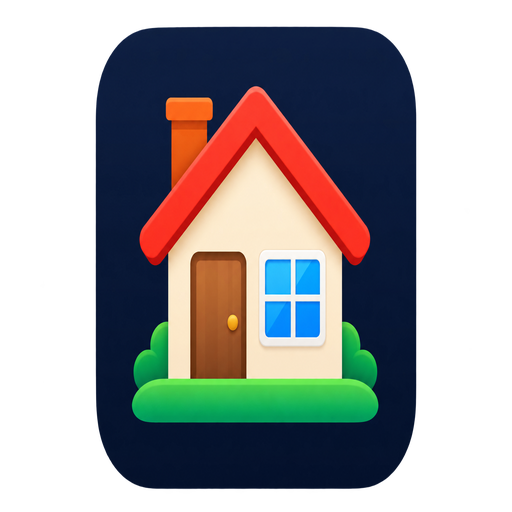
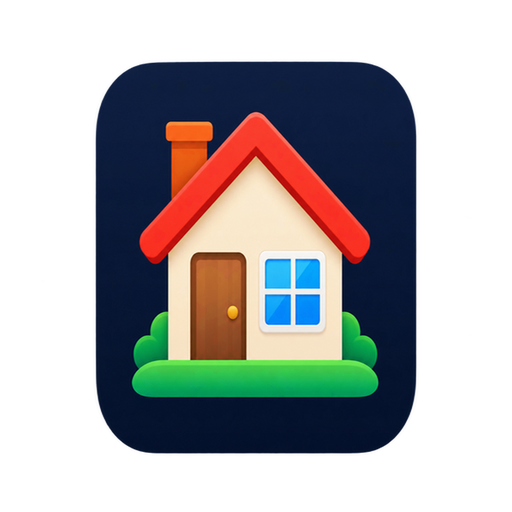
Add files via upload

diff --git a/S3/myHome.html b/S3/myHome.html
@@ -47,15 +47,15 @@ th{color:var(--muted)}
 </style>
 
 
-<link rel="manifest" href="./manifest.webmanifest?v=3">
+<link rel="manifest" href="./manifest.webmanifest?v=4">
 <meta name="theme-color" content="#0f172a">
 <meta name="apple-mobile-web-app-capable" content="yes">
 <meta name="apple-mobile-web-app-status-bar-style" content="black-translucent">
 <meta name="apple-mobile-web-app-title" content="myHome">
-<link rel="apple-touch-icon" sizes="180x180" href="./apple-touch-icon.png?v=3">
-<link rel="icon" type="image/png" sizes="32x32" href="./favicon-32.png?v=3">
-<link rel="icon" type="image/png" sizes="48x48" href="./favicon-48.png?v=3">
-<link rel="icon" type="image/png" sizes="192x192" href="./icon-192.png?v=3">
+<link rel="apple-touch-icon" sizes="180x180" href="./apple-touch-icon.png?v=4">
+<link rel="icon" type="image/png" sizes="32x32" href="./favicon-32.png?v=4">
+<link rel="icon" type="image/png" sizes="48x48" href="./favicon-48.png?v=4">
+<link rel="icon" type="image/png" sizes="192x192" href="./icon-192.png?v=4">
 
 </head>
 
@@ -245,11 +245,14 @@ function escapeHtml(s){
 
 
 
+
+
+
 <script>
 if ('serviceWorker' in navigator) {
   window.addEventListener('load', async () => {
     try {
-      const reg = await navigator.serviceWorker.register('./sw.js?v=3');
+      const reg = await navigator.serviceWorker.register('./sw.js?v=4');
       reg.update();
     } catch (e) {
       console.error('Service Worker registration failed:', e);

diff --git a/S3/sw.js b/S3/sw.js
@@ -1,4 +1,4 @@
-const CACHE_NAME = 'myhome-v3';
+const CACHE_NAME = 'myhome-v4';
 const ASSETS = [
   './myHome.html',
   './manifest.webmanifest',
@@ -11,17 +11,15 @@ const ASSETS = [
 ];
 
 self.addEventListener('install', event => {
-  event.waitUntil(
-    caches.open(CACHE_NAME).then(cache => cache.addAll(ASSETS))
-  );
+  event.waitUntil(caches.open(CACHE_NAME).then(cache => cache.addAll(ASSETS)));
   self.skipWaiting();
 });
 
 self.addEventListener('activate', event => {
   event.waitUntil(
-    caches.keys().then(keys =>
-      Promise.all(keys.filter(key => key !== CACHE_NAME).map(key => caches.delete(key)))
-    ).then(() => self.clients.claim())
+    caches.keys()
+      .then(keys => Promise.all(keys.filter(key => key !== CACHE_NAME).map(key => caches.delete(key))))
+      .then(() => self.clients.claim())
   );
 });
 
